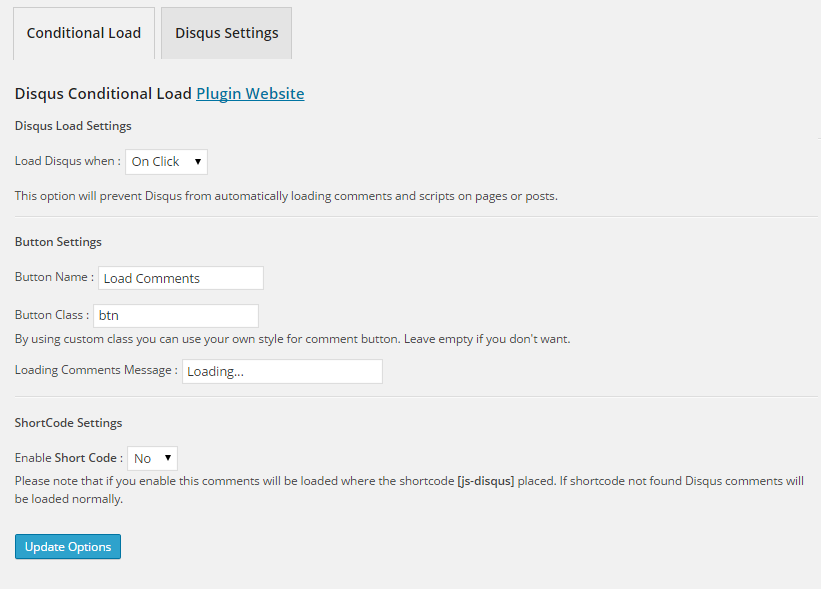
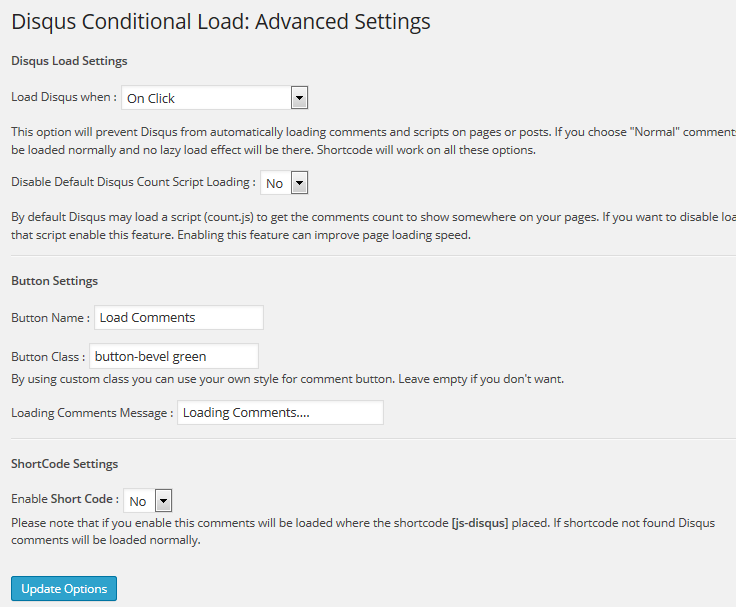
Fixed ssl issue Fixed comment loading on urls with #comments Fixed #disqus_thread issue
git-svn-id: https://plugins.svn.wordpress.org/disqus-conditional-load/trunk@1021097 b8457f37-d9ea-0310-8a92-e5e31aec5664

diff --git a/includes/functions/js-functions.php b/includes/functions/js-functions.php
@@ -56,13 +56,14 @@
 			$click = 'jQuery(function () {
 						jQuery("#js_comment_div").click(loadDisqus);
 						});';
-			$js = 'loadDisqus();';
 			
 			$condition = (get_option('js_type') == 'scroll') ? $scroll : $click;
 			
 			$script = '<script type="text/javascript">
 						var disqus_shortname = "'.strtolower(get_option("disqus_forum_url")).'";
+						if ( !ds_loaded ) {
 						var ds_loaded = false; //To track loading only once on a page.
+						}
 						function loadDisqus()
 						{
 							var disqus_div = jQuery("#disqus_thread"); //The ID of the Disqus DIV tag
@@ -81,7 +82,7 @@
 								var dsq = document.createElement("script");
 								dsq.type = "text/javascript";
 								dsq.async = true;
-								dsq.src = "http://" + window.disqus_shortname + ".disqus.com/embed.js";
+								dsq.src = "//" + window.disqus_shortname + ".disqus.com/embed.js";
 								jQuery("#hidden-div").html("<h4>'.get_option('js_message').'</h4>");
 								(document.getElementsByTagName("head")[0] || document.getElementsByTagName("body")[0]).appendChild(dsq);
 							}    

diff --git a/includes/js-comments.php b/includes/js-comments.php
@@ -100,8 +100,22 @@ require_once( dirname(__FILE__) . '/functions/js-options.php' );
     };
 /* ]]> */
 </script>
-
-<?php
+<?php if($js_type !== 'normal'){ ?>
+<script type="text/javascript">
+/* <![CDATA[ */
+var hash = window.location.hash;
+if(hash!==''){
+var ds_loaded = true;
+(function() {
+    var dsq = document.createElement('script'); dsq.type = 'text/javascript';
+    dsq.async = true;
+    dsq.src = '//' + disqus_shortname + '.' + '<?php echo DISQUS_DOMAIN; ?>' + '/' + 'embed' + '.js' + '?pname=wordpress&pver=<?php echo DISQUS_VERSION; ?>';
+    (document.getElementsByTagName('head')[0] || document.getElementsByTagName('body')[0]).appendChild(dsq);
+	
+})();}
+/* ]]> */
+</script>
+<?php }
 if($js_type == 'normal'){ ?>
 <script type="text/javascript">
 /* <![CDATA[ */

diff --git a/disqus-conditional-load.php b/disqus-conditional-load.php
@@ -4,7 +4,7 @@
 	Plugin URI: http://www.joelsays.com/plugins/disqus-conditional-load/
 	Description: Use Disqus commenting system with plenty of advanced featured like lazy load, woocommerce support, counts etc.
 	Author: Joel James
-	Version: 9.0.2
+	Version: 9.0.3
 	Author URI: http://www.joelsays.com/about-me/
 	Donate link: http://www.joelsays.com/donation/
 */
@@ -1230,7 +1230,7 @@ function dsq_output_footer_comment_js() {
     if (!dsq_can_replace()) return;
     if (get_option('disqus_cc_fix') != '1') return;
 ?>
-<?php if(get_option('js_count_disable') == 'yes'){ ?>
+<?php if(get_option('js_count_disable') == 'no'){ ?>
     <script type="text/javascript">
     // <![CDATA[
         var disqus_shortname = '<?php echo strtolower(get_option('disqus_forum_url')); ?>';

diff --git a/includes/js-manage.php b/includes/js-manage.php
@@ -363,7 +363,7 @@ case 0:
     $dsq_sso_button = get_option('disqus_sso_button');
 ?>
         <?php echo dsq_i('<p>These settings are taken from official Disqus plugin. You will get all official plugin options on this page.</p>') ?>
-		<?php echo dsq_i('<h4>Version: 9.0.2</h4>') ?>
+		<?php echo dsq_i('<h4>Version: 9.0.3</h4>') ?>
         <?php
         if (get_option('disqus_active') == '0') {
             // disqus is not active
